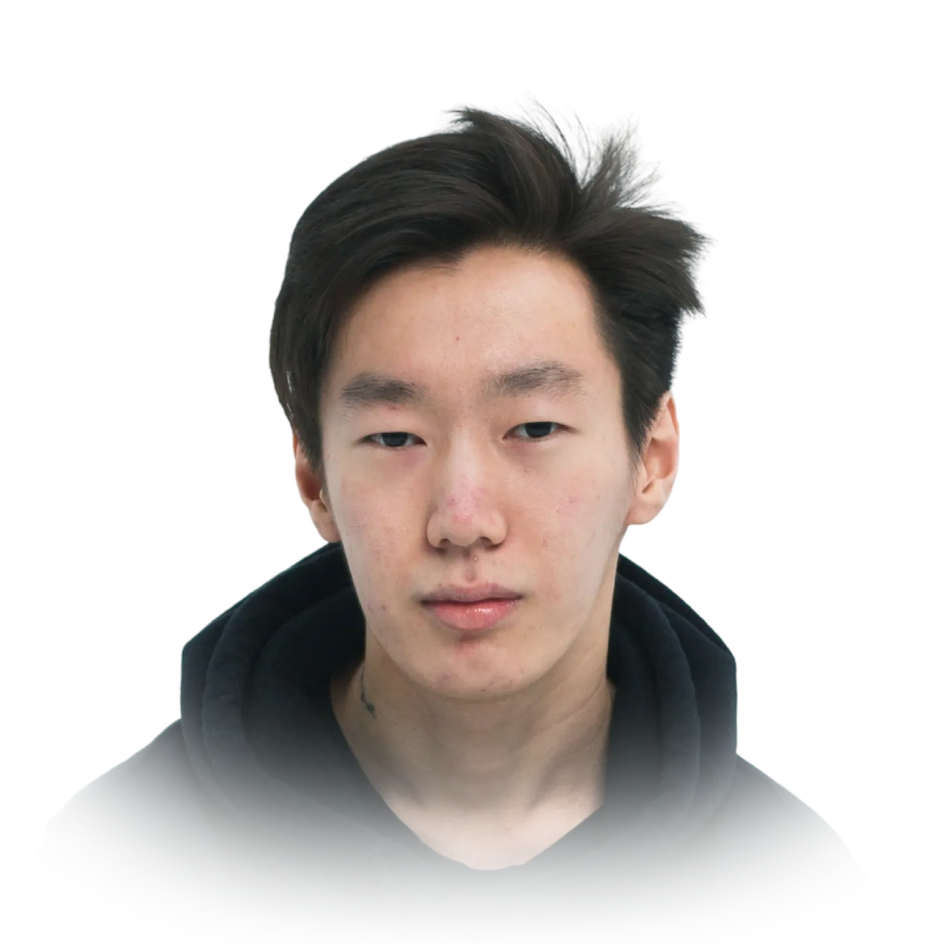
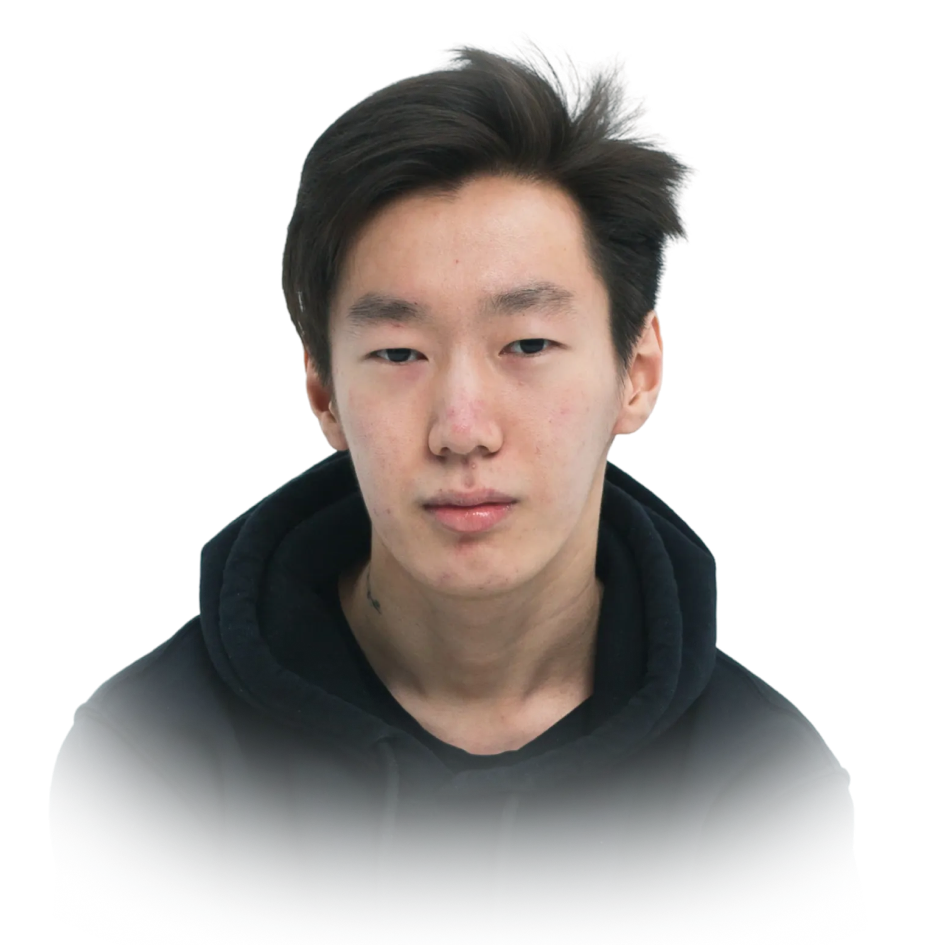
Карточка «обо мне»: новое фото, ярлыки «Design Systems» и «4 года опыта», 32 до кнопок, теги убраны

Changed region(s): [[0.0614, 0.0306, 0.9206, 0.9187], [0.7058, 0.735, 0.7365, 0.7656]]

diff --git a/src/canvas/layout.ts b/src/canvas/layout.ts
@@ -128,9 +128,11 @@ export const ARROW_LEN = 8; // длина наконечника
 // Линия обрывается у основания наконечника (с заходом 1px под него), чтобы не торчать на кончике
 
 /** Плавная связь с горизонтальными касательными, как у connector в Figma. */
-export function edgeGeometry(edge: Edge, from: Rect, to: Rect, lowY?: number) {
+export function edgeGeometry(edge: Edge, from: Rect, to: Rect, lowY?: number, compact = false) {
   const dir = edge.side === 'right' ? 1 : -1;
-  const sx = (dir === 1 ? from.right + START_GAP.right : from.left - START_GAP.left) + dir * (edge.dx ?? 0);
+  // На телефоне карточка уже и фото почти у края — внутрь точки не сдвигаем, чтобы не лечь на фото
+  const dx = compact ? Math.max(0, edge.dx ?? 0) : (edge.dx ?? 0);
+  const sx = (dir === 1 ? from.right + START_GAP.right : from.left - START_GAP.left) + dir * dx;
   const sy = edge.alignToTarget
     ? Math.min(from.bottom - 24, Math.max(from.top + 24, to.cy))
     : edge.low && lowY !== undefined

diff --git a/src/components/Cards.tsx b/src/components/Cards.tsx
@@ -231,6 +231,15 @@ export function HeroCard({ variant = 'canvas' }: { variant?: 'canvas' | 'feed' |
     <section className={`hero hero--${variant}`}>
       <div className="hero-photo">
         <Img src={profile.photo} className="hero-photo-img" />
+        {profile.badges.map((b) => (
+          <span
+            key={b.text}
+            className="hero-badge"
+            style={{ left: b.x, top: b.y, transform: `rotate(${b.angle}deg)` }}
+          >
+            {b.text}
+          </span>
+        ))}
       </div>
       <div className="hero-text">
         <div className="hero-title">
@@ -238,11 +247,6 @@ export function HeroCard({ variant = 'canvas' }: { variant?: 'canvas' | 'feed' |
           <p className="hero-role">{profile.role}</p>
         </div>
         <p className="muted hero-about">{profile.about}</p>
-        <div className="tag-list">
-          {profile.tags.map((t) => (
-            <Tag key={t}>{t}</Tag>
-          ))}
-        </div>
       </div>
       <div className="hero-actions">
         <LinkButton href={profile.cvUrl} variant="secondary">

diff --git a/src/styles.css b/src/styles.css
@@ -429,9 +429,24 @@ a {
   width: 457px;
 }
 .hero-photo {
+  position: relative;
   width: 315px;
   height: 315px;
   flex-shrink: 0;
+}
+/* Ярлык на фото: наклон вокруг верхнего левого угла, как поворот в Figma */
+.hero-badge {
+  position: absolute;
+  padding: 8px 12px;
+  border: 1px solid var(--fill-6);
+  border-radius: 999px;
+  background: var(--surface);
+  color: var(--text);
+  font-size: 12px;
+  font-weight: 500;
+  line-height: normal;
+  white-space: nowrap;
+  transform-origin: 0 0;
 }
 .hero-photo-img {
   display: block;
@@ -446,7 +461,7 @@ a {
   align-items: center;
   gap: 16px;
   width: 100%;
-  padding: 16px;
+  padding: 16px 16px 32px; /* 32 до кнопок, как в макете */
   text-align: center;
 }
 .hero-title {
@@ -466,7 +481,6 @@ a {
   line-height: normal;
 }
 .hero-about { line-height: normal; }
-.hero .tag-list { justify-content: center; flex-wrap: wrap; }
 .hero-actions {
   display: flex;
   gap: 4px;

diff --git a/src/content.ts b/src/content.ts
@@ -8,7 +8,11 @@ export const profile = {
   name: 'Егоров Никита',
   role: 'Продуктовый дизайнер (Design Systems)',
   about: 'Работал с B2C-продуктами на 10+ млн пользователей, сложными B2B-интерфейсами и AI-инструментами.',
-  tags: ['B2B', 'B2C', 'Web', 'Mobile'],
+  /** Ярлыки поверх фото: положение и наклон как в макете (x, y — угол рамки до поворота, в px от фото 315×315) */
+  badges: [
+    { text: 'Design Systems', x: -43, y: 142, angle: -15 },
+    { text: '4 года опыта', x: 244, y: 251, angle: 7.83 },
+  ],
   /** Вырезка с прозрачным фоном и растушёвкой снизу, 3x от 315px */
   photo: asset('hero-photo.png'),
   cvUrl: 'https://clck.ru/3THQuC',

diff --git a/src/components/Canvas.tsx b/src/components/Canvas.tsx
@@ -211,7 +211,7 @@ export function Canvas({ camera, setCamera, offsets, setOffset, tool, spaceHeld,
             const a = rects[edge.from];
             const b = rects[edge.to];
             if (!a || !b) return null;
-            const g = edgeGeometry(edge, a, b, heroLowY);
+            const g = edgeGeometry(edge, a, b, heroLowY, compact);
             const tip = g.end;
             const back = -g.dir * ARROW_LEN;
             return (
